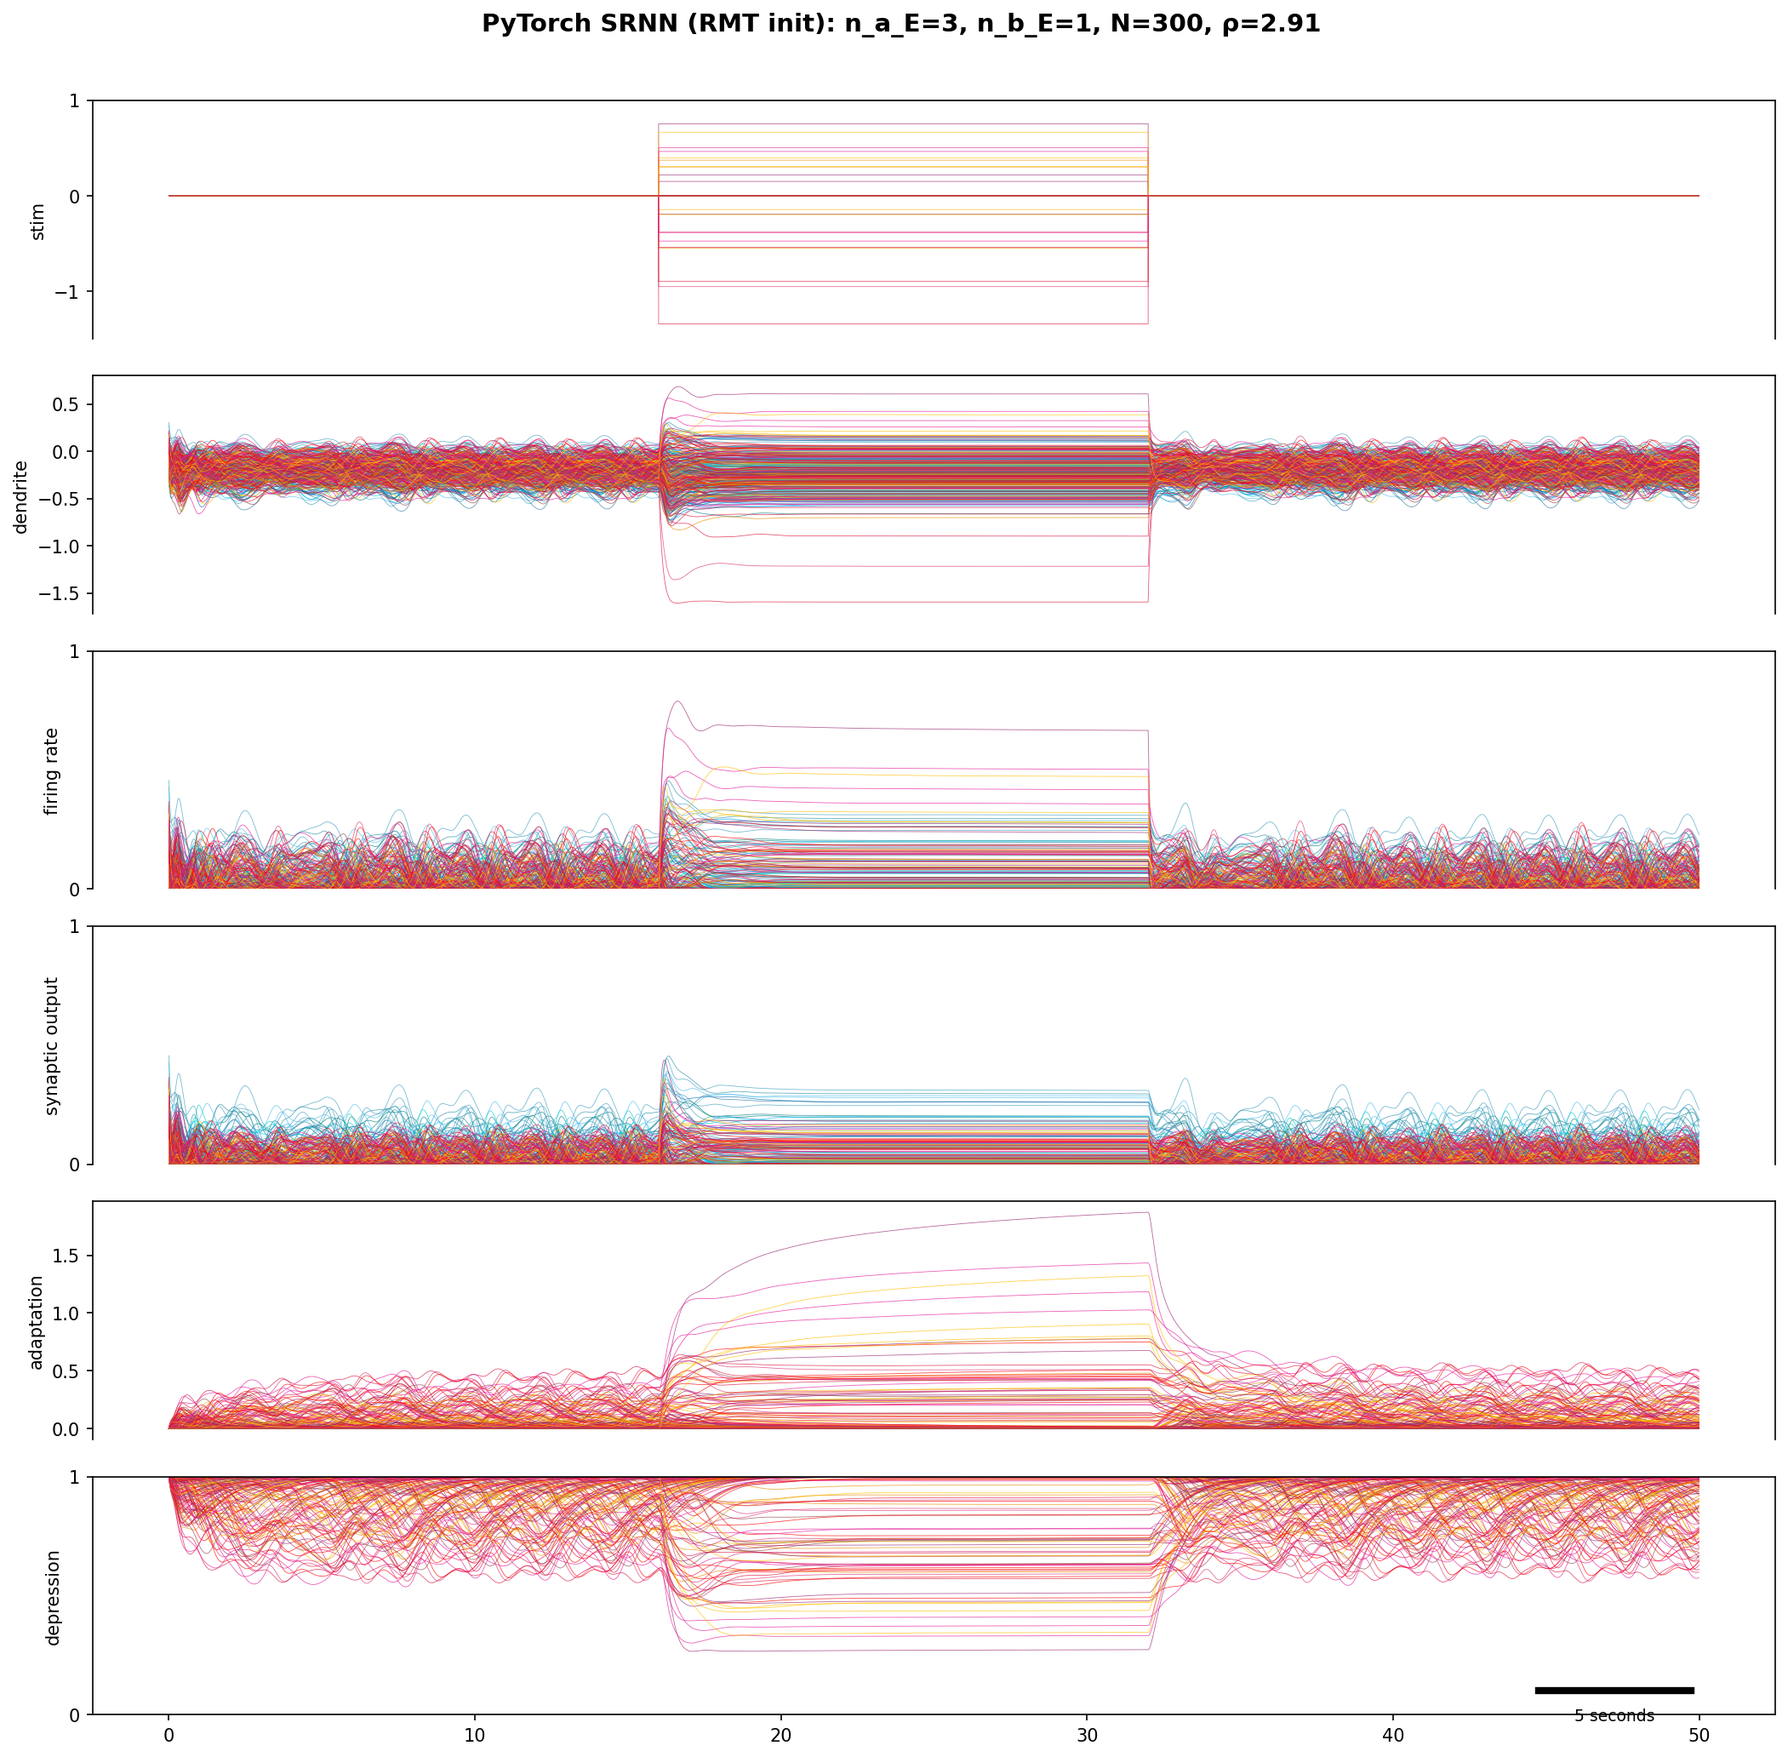
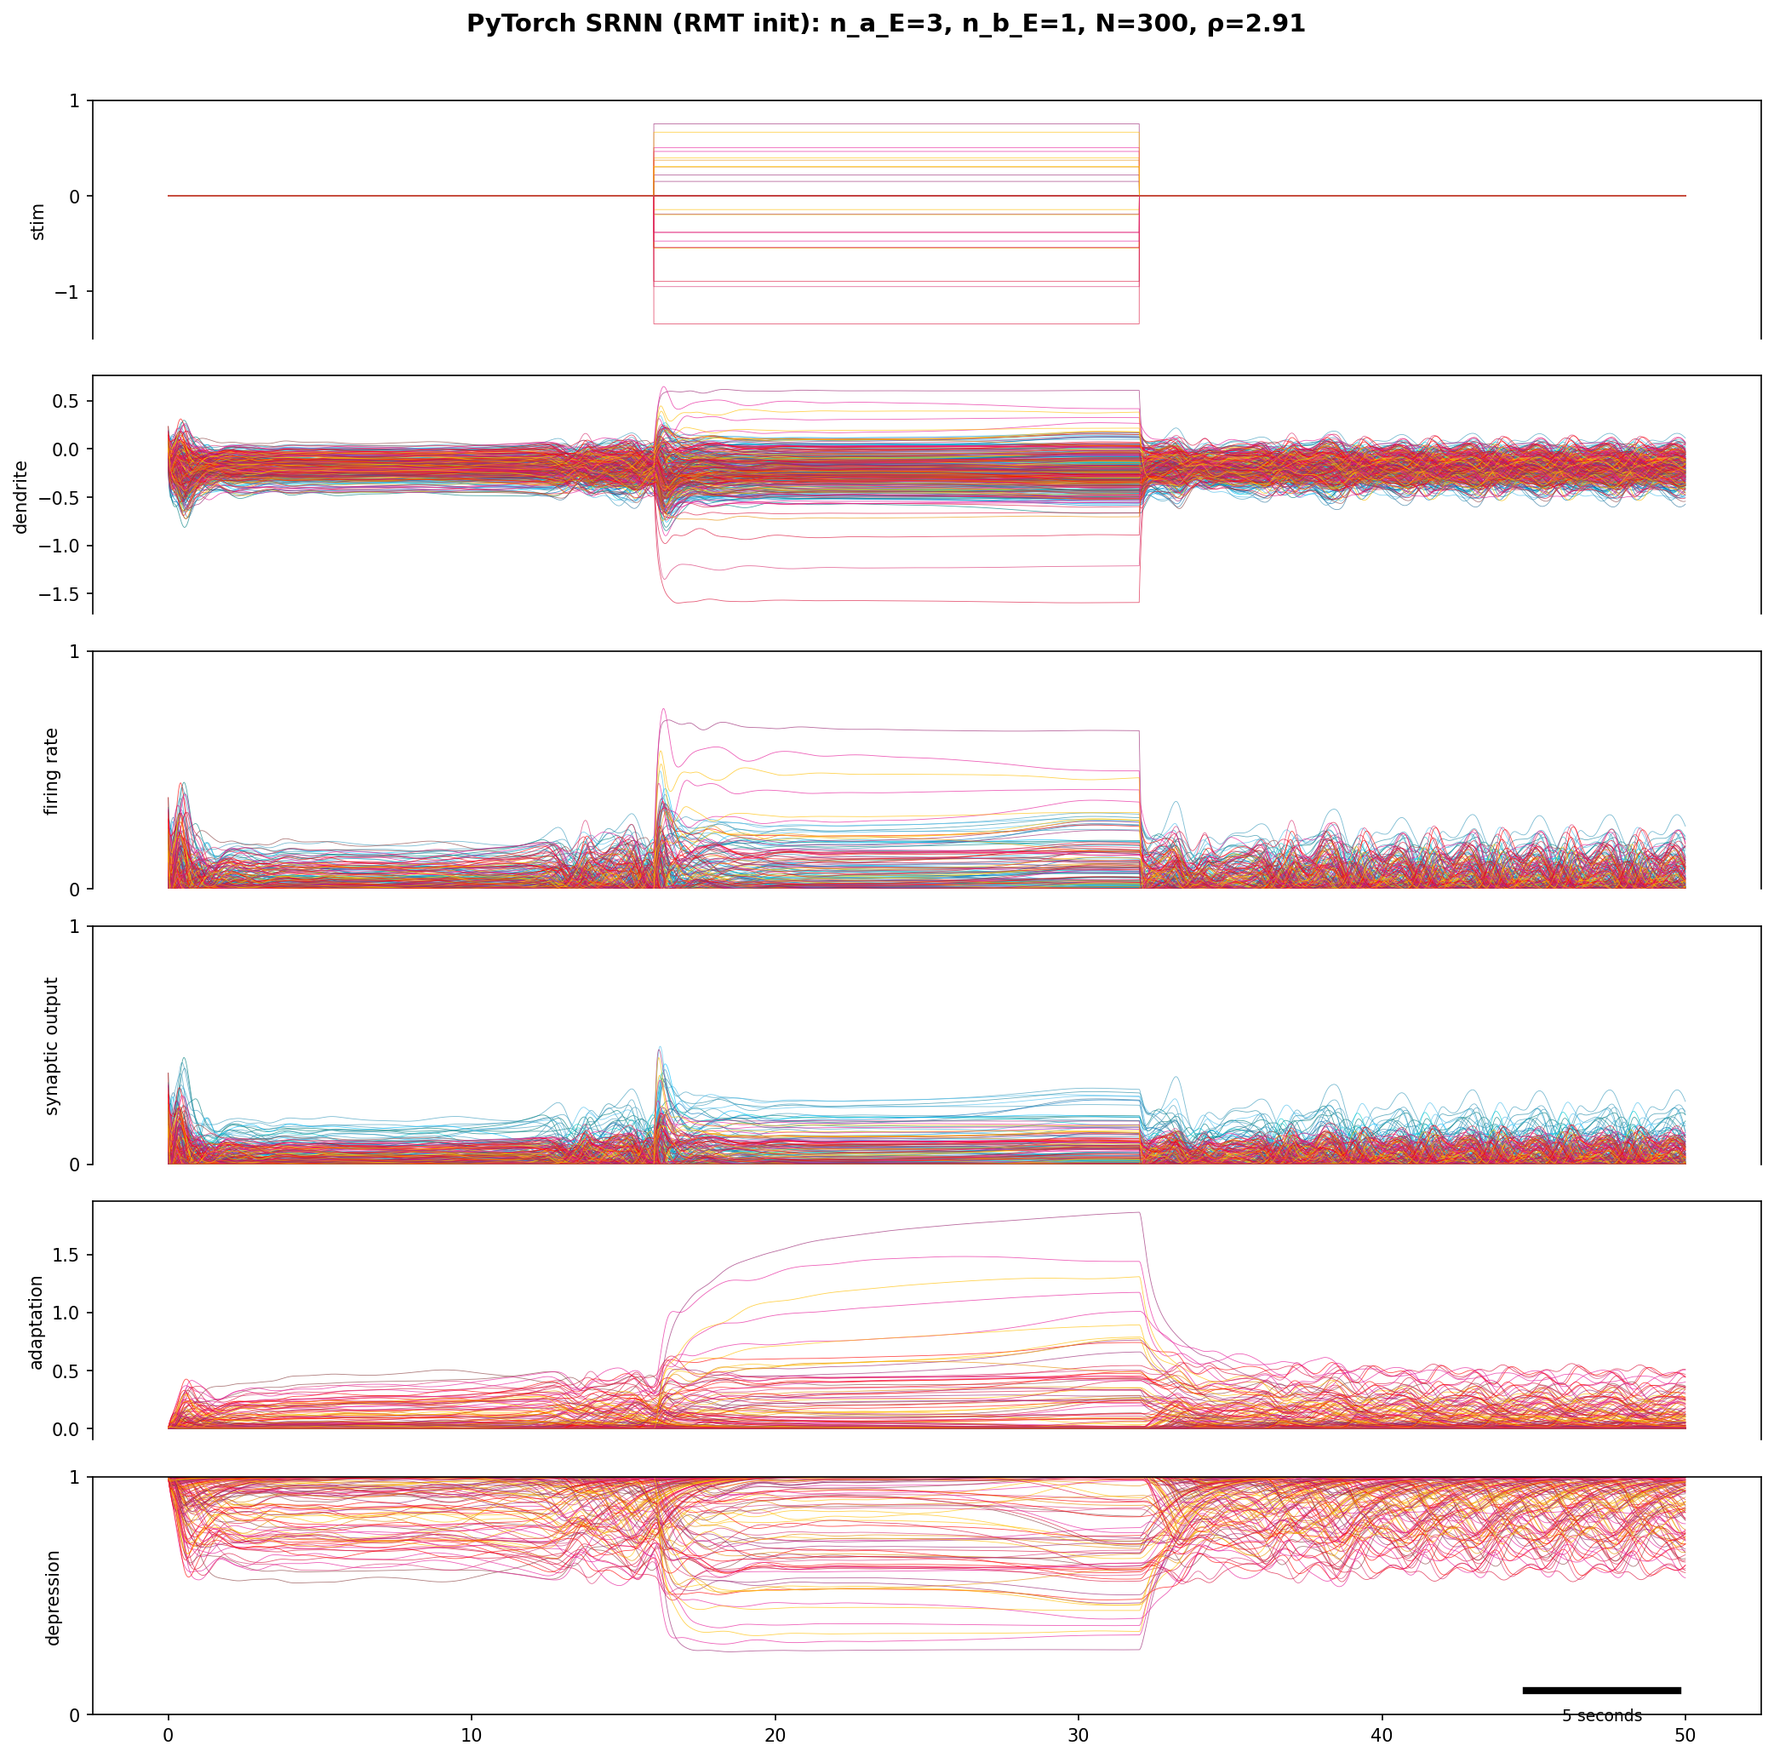
fixed code

diff --git a/models/srnn_cell.py b/models/srnn_cell.py
@@ -95,7 +95,6 @@ class SRNNConfig:
     h: float = 0.04
     ode_unfolds: int = 6
     readout: str = "synaptic"
-    sparsity: float = 0.5
 
     @property
     def n_E(self) -> int:
@@ -155,6 +154,7 @@ class SRNNCell(nn.Module):
         self,
         config: SRNNConfig,
         input_size: int,
+        rmt_export: dict,
         W_in_mask: Optional[torch.Tensor] = None,
     ):
         super().__init__()
@@ -170,26 +170,11 @@ class SRNNCell(nn.Module):
         else:
             self.W_in_mask: Optional[torch.Tensor] = None
 
-        # ---- Recurrent weight ----
-        # Generate target magnitudes (always positive)
-        W_target = torch.randn(N, N).abs() * math.sqrt(2.0 / N)
-        W_target = W_target.clamp(min=0.001 / math.sqrt(N))
+        # ---- Recurrent weight (from RMTMatrix) ----
+        self.W_raw = nn.Parameter(rmt_export["W_init"].clone())
+        self.register_buffer("sparsity_mask", rmt_export["sparsity_mask"].clone())
+        self.register_buffer("dales_sign", rmt_export["dales_sign"].clone())
 
-        if config.dales:
-            # Store in inverse-softplus space so softplus(W_raw) ≈ W_target
-            W_init = _softplus_inv(W_target)
-        else:
-            W_init = W_target
-
-        if config.sparsity > 0:
-            mask = (torch.rand(N, N) > config.sparsity).float()
-            self.register_buffer("sparsity_mask", mask)
-            # Note: do NOT pre-multiply W_init by mask here.
-            # Sparsity is applied in _effective_W() as a frozen buffer.
-        else:
-            self.register_buffer("sparsity_mask", None)
-
-        self.W_raw = nn.Parameter(W_init)
         if config.echo:
             self.W_raw.requires_grad_(False)
 
@@ -273,17 +258,16 @@ class SRNNCell(nn.Module):
     # ---- Weight construction ----
 
     def _effective_W(self) -> torch.Tensor:
-        """Build the effective weight matrix, applying Dale's law if enabled."""
-        cfg = self.config
-        if cfg.dales:
-            W_pos = F.softplus(self.W_raw)
-            W_eff = W_pos.clone()
-            W_eff[:, cfg.n_E:] = -W_pos[:, cfg.n_E:]
-        else:
-            W_eff = self.W_raw
-        # Sparsity applied regardless of Dale's law
-        if self.sparsity_mask is not None:
-            W_eff = W_eff * self.sparsity_mask
+        """Build effective W — branch-free, compatible with batched bmm.
+
+        W_eff = dales_flag * dales_sign * softplus(W_raw) * mask
+              + (1 - dales_flag) * W_raw * mask
+
+        dales_sign is (N,) and broadcasts column-wise over (N, N).
+        """
+        d = float(self.config.dales)
+        W_eff = (d * self.dales_sign * F.softplus(self.W_raw)
+               + (1.0 - d) * self.W_raw) * self.sparsity_mask
         return W_eff
 
     # ---- State packing / unpacking ----
@@ -732,10 +716,12 @@ class BatchedSRNNCell(nn.Module):
         self,
         configs: list[SRNNConfig],
         input_size: int,
+        rmt_exports: list[dict],
         W_in_mask: Optional[torch.Tensor] = None,
     ):
         super().__init__()
         assert len(configs) > 0
+        assert len(rmt_exports) == len(configs), "Must provide one rmt_export per config"
         N = configs[0].num_units
         for c in configs:
             assert c.num_units == N, "All configs must share num_units"
@@ -764,27 +750,14 @@ class BatchedSRNNCell(nn.Module):
             + N
         )
 
-        # ---- Per-variant parameters stacked as (K, ...) ----
-        # Recurrent weights: (K, N, N)
-        W_stack = []
-        sparsity_masks = []
-        for c in configs:
-            w_target = torch.randn(N, N).abs() * math.sqrt(2.0 / N)
-            w_target = w_target.clamp(min=0.001 / math.sqrt(N))
+        # ---- Per-variant parameters stacked as (K, ...) from RMTMatrix ----
+        W_stack = [exp["W_init"].clone() for exp in rmt_exports]
+        sparsity_stack = [exp["sparsity_mask"].clone() for exp in rmt_exports]
+        dales_sign_stack = [exp["dales_sign"].clone() for exp in rmt_exports]
 
-            if c.dales:
-                w = _softplus_inv(w_target)
-            else:
-                w = w_target
-
-            if c.sparsity > 0:
-                m = (torch.rand(N, N) > c.sparsity).float()
-                sparsity_masks.append(m)
-            else:
-                sparsity_masks.append(torch.ones(N, N))
-            W_stack.append(w)
-        self.W_raw = nn.Parameter(torch.stack(W_stack))  # (K, N, N)
-        self.register_buffer("sparsity_masks", torch.stack(sparsity_masks))  # (K, N, N)
+        self.W_raw = nn.Parameter(torch.stack(W_stack))           # (K, N, N)
+        self.register_buffer("sparsity_masks", torch.stack(sparsity_stack))    # (K, N, N)
+        self.register_buffer("dales_signs", torch.stack(dales_sign_stack))     # (K, N)
 
         # Input weights: (K, N, input_size)
         self.W_in = nn.Parameter(torch.randn(self.K, N, input_size) * 0.1)
@@ -933,18 +906,17 @@ class BatchedSRNNCell(nn.Module):
     # ---- Weight construction ----
 
     def _effective_W(self) -> torch.Tensor:
-        """Build effective (K, N, N) weight matrix applying Dale's per variant."""
-        W_pos = F.softplus(self.W_raw)  # (K, N, N)
-        # For Dale's variants: positive E cols, negative I cols
-        # For non-Dale's: use raw weights directly
-        # Blend via dales_mask
-        W_dale = W_pos.clone()
-        W_dale[:, :, self.n_E:] = -W_pos[:, :, self.n_E:]
+        """Build effective (K, N, N) weight matrix — branch-free.
 
-        # dales_mask: (K, 1, 1)
-        W_eff = self.dales_mask * W_dale + (1.0 - self.dales_mask) * self.W_raw
-        # Sparsity applied regardless of Dale's law
-        W_eff = W_eff * self.sparsity_masks
+        W_eff = dales_mask * dales_signs * softplus(W_raw) * sparsity
+              + (1 - dales_mask) * W_raw * sparsity
+
+        dales_signs: (K, N) → (K, 1, N) for column-wise broadcast.
+        dales_mask:  (K, 1, 1) — 1.0 if Dale's active for variant k.
+        """
+        signs = self.dales_signs.unsqueeze(1)  # (K, 1, N)
+        W_eff = (self.dales_mask * signs * F.softplus(self.W_raw)
+               + (1.0 - self.dales_mask) * self.W_raw) * self.sparsity_masks
         return W_eff
 
     # ---- State packing / unpacking ----

diff --git a/scripts/test_srnn_defaults.py b/scripts/test_srnn_defaults.py
@@ -23,7 +23,7 @@ from models.srnn_cell import SRNNConfig, SRNNCell, piecewise_sigmoid
 N = 300               # Network size (match MATLAB)
 N_E = N // 2          # 150 E, 150 I
 SEED = 1
-T = 30.0              # Total simulation time (seconds)
+T = 50.0              # Total simulation time (seconds)
 H = 1.0 / 400         # Outer timestep (400 Hz, match MATLAB fs)
 ODE_UNFOLDS = 1       # Sub-steps per outer step
 N_STEPS_STIM = 3      # Number of stimulus step periods
@@ -83,25 +83,42 @@ def plot_lines_with_colormap(ax, t, data, cmap):
 
 # ── Setup ──────────────────────────────────────────────────────────────────
 
-# Load MATLAB W and stimulus
+# Load MATLAB W and stimulus (including decomposed W components)
 MATLAB_MAT = "/Users/tom/Desktop/local_code/Intersect-LNNs-SRNNs/Matlab/SRNN/scripts/matlab_W_and_stim.mat"
 from scipy.io import loadmat
 mat = loadmat(MATLAB_MAT, squeeze_me=True)
-W_matlab = mat["W"]          # (300, 300) — already has E/I signs
+W_matlab = mat["W"]          # (300, 300) — already has E/I signs + sparsity
 u_ex_matlab = mat["u_ex"]    # (300, 20001) — at 400 Hz
 t_ex_matlab = mat["t_ex"]    # (20001,) — time vector at 400 Hz
 S0_matlab = mat["S0"]        # initial state vector
 N_mat = int(mat["n"])
 f_mat = float(mat["f"])
 
+# Decomposed W components for dales=True path
+W_init_matlab = mat["W_init"]            # (300, 300) — softplus-inverse of |W|
+sparsity_mask_matlab = mat["sparsity_mask"]  # (300, 300) — binary mask
+dales_sign_matlab = mat["dales_sign"]    # (300,) — +1 E, -1 I
+n_E_matlab = int(mat["n_E"])
+
 assert N_mat == N, f"MATLAB n={N_mat} != script N={N}"
 N_E = int(N * f_mat)
+assert N_E == n_E_matlab, f"N_E mismatch: {N_E} vs {n_E_matlab}"
 
 print(f"Loaded MATLAB W: shape={W_matlab.shape}, spectral radius={np.max(np.abs(np.linalg.eigvals(W_matlab))):.3f}")
 print(f"Loaded MATLAB stimulus: shape={u_ex_matlab.shape}, t=[{t_ex_matlab[0]:.1f}, {t_ex_matlab[-1]:.1f}]s")
+print(f"Loaded decomposed W: W_init={W_init_matlab.shape}, sparsity={sparsity_mask_matlab.mean():.4f}")
 
 torch.manual_seed(SEED)
 np.random.seed(SEED + 1)
+
+# Build rmt_export dict from MATLAB decomposed data
+rmt_export = {
+    "W_init": torch.tensor(W_init_matlab, dtype=torch.float32),
+    "sparsity_mask": torch.tensor(sparsity_mask_matlab, dtype=torch.float32),
+    "dales_sign": torch.tensor(dales_sign_matlab, dtype=torch.float32),
+    "n_E": n_E_matlab,
+    "dales": True,
+}
 
 cfg = SRNNConfig(
     num_units=N,
@@ -110,14 +127,13 @@ cfg = SRNNConfig(
     solver="rk4",
     h=H,
     ode_unfolds=ODE_UNFOLDS,
-    dales=False,  # MATLAB W already has correct E/I signs
+    dales=True,
 )
 
-cell = SRNNCell(cfg, input_size=N)
+cell = SRNNCell(cfg, input_size=N, rmt_export=rmt_export)
 
-# Inject MATLAB W directly (dales=False means W_raw is used as-is)
+# Override W_in to identity (matching MATLAB)
 with torch.no_grad():
-    cell.W_raw.copy_(torch.tensor(W_matlab, dtype=torch.float32))
     cell.W_in.copy_(torch.eye(N))
 
 # ── Resample MATLAB stimulus to match our h ────────────────────────────────
@@ -132,6 +148,16 @@ matlab_indices = np.clip(matlab_indices, 0, len(t_ex_matlab) - 1)
 u_ex = u_ex_matlab[:, matlab_indices]  # (N, n_outer_steps)
 
 u_ex_tensor = torch.tensor(u_ex, dtype=torch.float32)
+
+# Verify W round-trip: decomposed → effective should match MATLAB W
+with torch.no_grad():
+    W_eff = cell._effective_W().numpy()
+    rho = np.max(np.abs(np.linalg.eigvals(W_eff)))
+    rho_matlab = np.max(np.abs(np.linalg.eigvals(W_matlab)))
+    print(f"\nW_eff spectral radius: {rho:.4f} (MATLAB: {rho_matlab:.4f})")
+    # Check reconstruction error
+    err = np.max(np.abs(W_eff - W_matlab))
+    print(f"Max |W_eff - W_matlab|: {err:.2e}")
 
 print(f"Config: solver={cfg.solver}, h={H}s, unfolds={ODE_UNFOLDS}, dt={H/ODE_UNFOLDS:.6f}s")
 print(f"Simulation: {n_outer_steps} outer steps, T={T}s")

diff --git a/models/factory.py b/models/factory.py
@@ -17,6 +17,7 @@ from pytorch_refactor.models.srnn_cell import (
     BatchedSRNNCell,
     SRNN_PRESETS,
 )
+from pytorch_refactor.models.rmt_matrix import RMTMatrix
 from pytorch_refactor.models.ctrnn_cell import (
     CTRNNCell,
     CTRNNConfig,
@@ -66,7 +67,15 @@ def build_cell(
 
     if model_type == "srnn":
         srnn_cfg = _cfg_to_dataclass(cfg.model, SRNNConfig)
-        return SRNNCell(srnn_cfg, input_size, W_in_mask=W_in_mask)
+        rmt = RMTMatrix(
+            n=num_units,
+            density=cfg.model.get("alpha", 1.0 / 3.0),
+            seed=cfg.seed,
+            level_of_chaos=cfg.model.get("level_of_chaos", 1.0),
+        )
+        rmt.build()
+        rmt_export = rmt.export_for_srnn(dales=srnn_cfg.dales)
+        return SRNNCell(srnn_cfg, input_size, rmt_export, W_in_mask=W_in_mask)
 
     if model_type == "ctrnn":
         ctrnn_cfg = _cfg_to_dataclass(cfg.model, CTRNNConfig)
@@ -131,13 +140,25 @@ def build_batched_model(
         preset = SRNN_PRESETS[name]
         configs.append(replace(preset, num_units=num_units))
 
+    # Build ONE RMTMatrix (same seed → same W for all ablations)
+    rmt = RMTMatrix(
+        n=num_units,
+        density=cfg.model.get("alpha", 1.0 / 3.0),
+        seed=seed,
+        level_of_chaos=cfg.model.get("level_of_chaos", 1.0),
+    )
+    rmt.build()
+
+    # Export per variant (same underlying W, different dales modes)
+    rmt_exports = [rmt.export_for_srnn(dales=c.dales) for c in configs]
+
     # Create W_in_mask from neuron partition
     input_idx, _, _ = generate_neuron_partition(num_units, seed)
     W_in_mask = torch.tensor(
         make_input_mask(num_units, input_idx), dtype=torch.float32
     )
 
-    batched_cell = BatchedSRNNCell(configs, input_size, W_in_mask=W_in_mask)
+    batched_cell = BatchedSRNNCell(configs, input_size, rmt_exports, W_in_mask=W_in_mask)
 
     return SequenceModel(
         cell=batched_cell,

diff --git a/models/rmt_matrix.py b/models/rmt_matrix.py
@@ -61,6 +61,7 @@ class RMTMatrix:
         n: int,
         f: float = 0.5,
         indegree: Optional[int] = None,
+        density: Optional[float] = None,
         seed: int = 42,
         level_of_chaos: float = 1.0,
         mu_E_tilde: Optional[float] = None,
@@ -75,10 +76,17 @@ class RMTMatrix:
             raise ValueError(
                 f"Invalid zrs_mode '{zrs_mode}'. Valid: {self.VALID_ZRS_MODES}"
             )
+        if density is not None and indegree is not None:
+            raise ValueError("Specify density or indegree, not both")
 
         self.n = n
         self.f = f
-        self.indegree = indegree if indegree is not None else n
+        if density is not None:
+            self.indegree = round(density * n)
+        elif indegree is not None:
+            self.indegree = indegree
+        else:
+            self.indegree = n  # fully connected
         self.seed = seed
         self.level_of_chaos = level_of_chaos
         self.E_W = E_W
@@ -312,6 +320,7 @@ class RMTMatrix:
             "sparsity_mask": sparsity_mask,
             "dales_sign": dales_sign,
             "n_E": self.n_E,
+            "dales": dales,
         }
 
     # ── Plotting ───────────────────────────────────────────────────────────

diff --git a/scripts/test_srnn_defaults_pyOnly.py b/scripts/test_srnn_defaults_pyOnly.py
@@ -67,18 +67,13 @@ cfg = SRNNConfig(
     h=H,
     ode_unfolds=ODE_UNFOLDS,
     dales=True,
-    sparsity=0.0,  # Sparsity handled by RMT mask, not random
 )
 
-cell = SRNNCell(cfg, input_size=N)
+cell = SRNNCell(cfg, input_size=N, rmt_export=export)
 
-# Inject RMT weights and sparsity mask
+# Override W_in to identity (matching MATLAB)
 with torch.no_grad():
-    cell.W_raw.copy_(export["W_init"])
-    cell.W_in.copy_(torch.eye(N))  # W_in = eye(n), matching MATLAB
-
-# Replace the random sparsity mask with the RMT one
-cell.sparsity_mask = export["sparsity_mask"]
+    cell.W_in.copy_(torch.eye(N))
 
 # ── Generate Step Stimulus (matching StepStimulus.m) ───────────────────────
 

diff --git a/scripts/check_weights.py b/scripts/check_weights.py
@@ -7,10 +7,16 @@ import torch.nn.functional as F
 import numpy as np
 import matplotlib.pyplot as plt
 from models.srnn_cell import SRNNConfig, SRNNCell
+from models.rmt_matrix import RMTMatrix
 
 torch.manual_seed(42)
+
+rmt = RMTMatrix(n=300, density=1.0/3.0, seed=42, level_of_chaos=1.0)
+rmt.build()
+export = rmt.export_for_srnn(dales=True)
+
 cfg = SRNNConfig(num_units=300, n_a_E=3, n_a_I=0, n_b_E=1, n_b_I=0, dales=True)
-cell = SRNNCell(cfg, input_size=300)
+cell = SRNNCell(cfg, input_size=300, rmt_export=export)
 
 with torch.no_grad():
     W = cell._effective_W().numpy()

diff --git a/models/__init__.py b/models/__init__.py
@@ -7,6 +7,7 @@ from .srnn_cell import (
     SRNN_PRESETS,
     piecewise_sigmoid,
 )
+from .rmt_matrix import RMTMatrix
 
 __all__ = [
     "SRNNConfig",
@@ -14,4 +15,5 @@ __all__ = [
     "BatchedSRNNCell",
     "SRNN_PRESETS",
     "piecewise_sigmoid",
+    "RMTMatrix",
 ]
